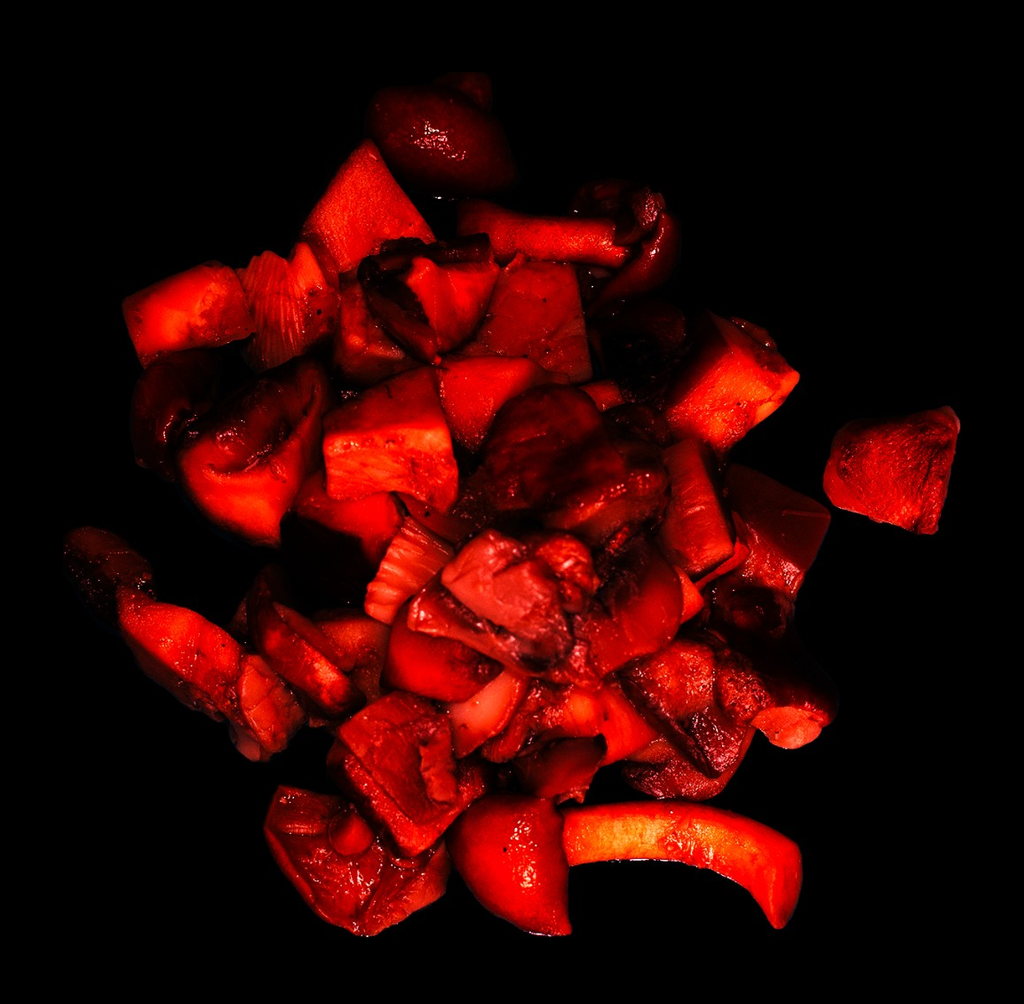
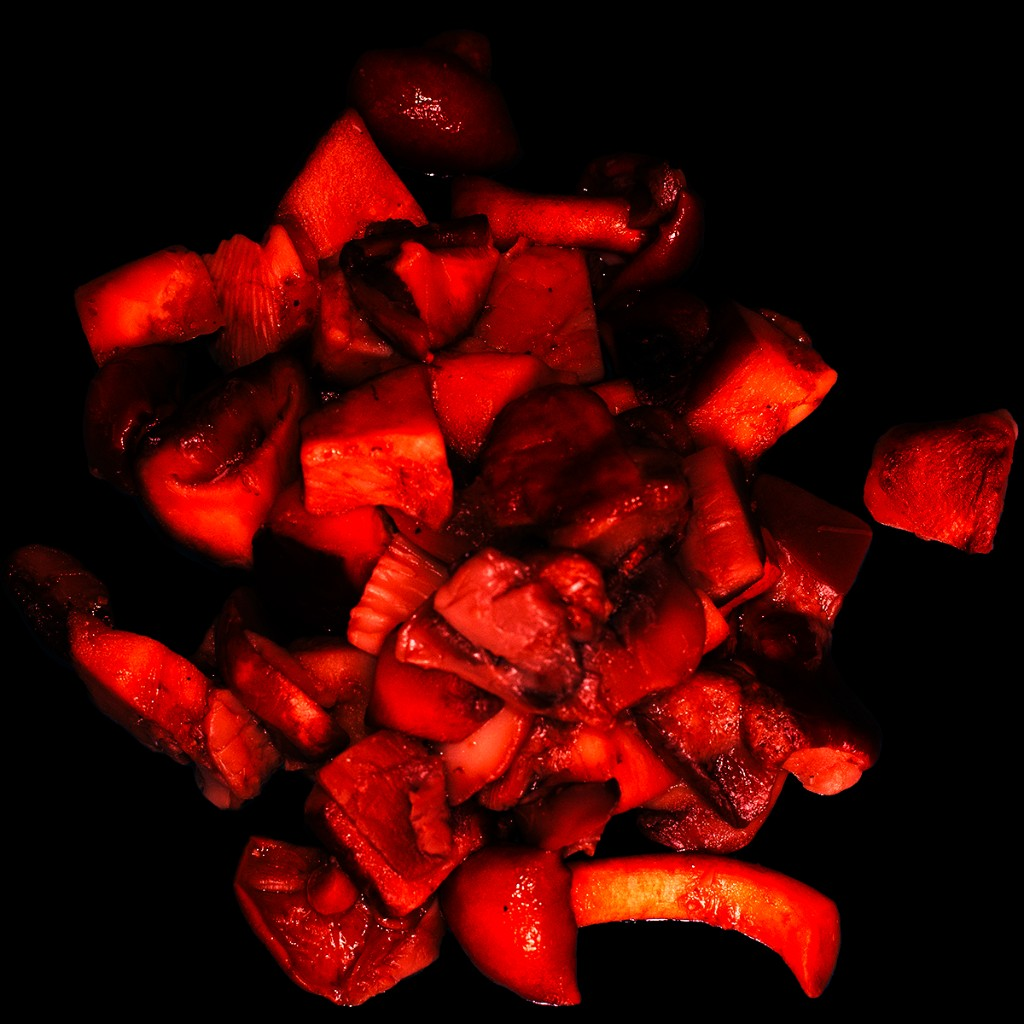
Shrink the other ingredient heroes to match eggs height.

diff --git a/index.html b/index.html
@@ -11,7 +11,7 @@
       href="https://fonts.googleapis.com/css2?family=Intel+One+Mono:wght@400;700&display=swap"
       rel="stylesheet"
     />
-    <link rel="stylesheet" href="css/style.css?v=hero4" />
+    <link rel="stylesheet" href="css/style.css?v=hero5" />
   </head>
   <body>
     <section class="screen screen-intro" id="screen-intro" data-screen="intro">
@@ -96,7 +96,7 @@
         <h1 class="page-title">HOW<span class="howto-dash">-</span>TO</h1>
         <button type="button" class="text-btn back-btn" data-go="home">back</button>
       </header>
-        <img class="recipe-hero" id="recipe-hero" src="assets/w3-mushrooms.png?v=hero4" alt="" aria-hidden="true" />
+        <img class="recipe-hero" id="recipe-hero" src="assets/w3-mushrooms.png?v=hero5" alt="" aria-hidden="true" data-hero="mushrooms" />
       <div class="recipe">
         <div class="recipe-ing">
           <p class="recipe-label">Ingredients</p>
@@ -144,6 +144,6 @@
       </div>
     </section>
 
-    <script src="js/app.js?v=hero4"></script>
+    <script src="js/app.js?v=hero5"></script>
   </body>
 </html>

diff --git a/js/app.js b/js/app.js
@@ -29,11 +29,11 @@ const INGREDIENT_ALIASES = {
 };
 
 const HERO = {
-  mushrooms: "assets/w3-mushrooms.png?v=hero4",
-  eggs: "assets/w3-eggs.png?v=hero4",
-  meat: "assets/w3-meat.png?v=hero4",
-  noodles: "assets/w3-noodles.png?v=hero4",
-  scallion: "assets/w3-scallion.png?v=hero4",
+  mushrooms: "assets/w3-mushrooms.png?v=hero5",
+  eggs: "assets/w3-eggs.png?v=hero5",
+  meat: "assets/w3-meat.png?v=hero5",
+  noodles: "assets/w3-noodles.png?v=hero5",
+  scallion: "assets/w3-scallion.png?v=hero5",
 };
 
 const LETTERBOX = {
@@ -170,7 +170,10 @@ function setIngredient(id) {
     btn.classList.toggle("is-active", btn.dataset.ingredient === id);
   });
   const hero = document.querySelector(".recipe-hero");
-  if (hero && HERO[id]) hero.src = HERO[id];
+  if (hero && HERO[id]) {
+    hero.src = HERO[id];
+    hero.dataset.hero = id;
+  }
 }
 
 function resetQuiz() {

diff --git a/css/style.css b/css/style.css
@@ -578,14 +578,30 @@ body.is-transitioning {
   position: absolute;
   left: 50%;
   top: 50%;
-  --hero-size: min(68vh, 52vw);
-  width: var(--hero-size);
-  height: calc(var(--hero-size) * 1004 / 1024);
+  width: min(68vh, 52vw);
+  height: min(68vh, 52vw);
   transform: translate(-50%, -50%);
+  transform-origin: center center;
   object-fit: contain;
   mix-blend-mode: screen;
   pointer-events: none;
   z-index: 1;
+}
+
+.recipe-hero[data-hero="mushrooms"] {
+  transform: translate(-50%, -50%) scale(0.8882);
+}
+
+.recipe-hero[data-hero="meat"] {
+  transform: translate(-50%, -50%) scale(0.8507);
+}
+
+.recipe-hero[data-hero="noodles"] {
+  transform: translate(-50%, -50%) scale(0.9312);
+}
+
+.recipe-hero[data-hero="scallion"] {
+  transform: translate(-50%, -50%) scale(0.9002);
 }
 
 @media (max-width: 720px) {
